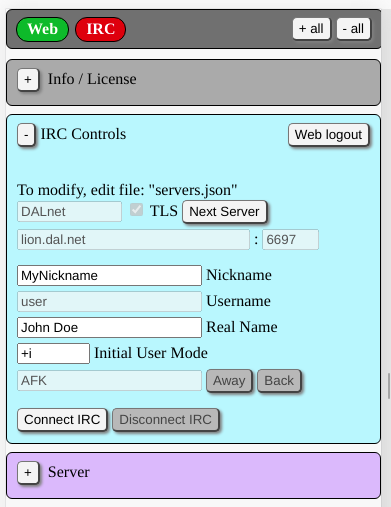
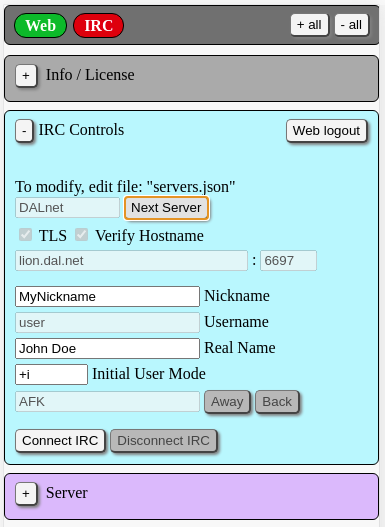
Fix IRC server TLS hostname verification and add to config.

diff --git a/secure-minify/webclient.html b/secure-minify/webclient.html
@@ -49,38 +49,39 @@ You are receiving this message because your nickname is still present on IRC, or
 </div></div><div id="webDisconnectedHiddenDiv1" hidden><div class="aa-section-div color-connect"><div class="head-flex"><div class="head-left"><button id="hideLoginSectionButton">-</button> <span>
 IRC Controls</span></div><div class="head-right"><button id="webLogoutButton">Web logout</button></div></div><div class="vh10"></div><div class="button-div"><span class="user-span" id="headerServer">
 server</span> <span class="user-span" id="headerUser"></span></div><div class="vh10"></div><div id="hideLoginSection"><div class="vh10"></div><div>To modify, edit file: &quotservers.json&quot</div>
-<div class="button-div"><input type="text" id="ircServerNameInputId" size="10" value="" disabled="disabled"> <input type="checkbox" id="ircServerTlsCheck" disabled="disabled"> <span>TLS</span> <button
- id="cycleNextServerButton">Next Server</button></div><div class="button-div"><input type="text" id="ircServerAddrInputId" size="26" value="" disabled="disabled"> <span>:</span> <input type="text" 
-id="ircServerPortInputId" size="4" value="" disabled="disabled"></div><div class="vh10"></div><div class="button-div"><input type="text" id="nickNameInputId" value=""><div class="input-label-right">
-Nickname</div></div><div class="button-div"><input type="text" id="userNameInputId" value="" disabled="disabled"><div class="input-label-right">Username</div></div><div class="button-div"><input 
-type="text" id="realNameInputId" value=""><div class="input-label-right">Real Name</div></div><div class="button-div"><input type="text" id="userModeInputId" size="6" value=""><div 
-class="input-label-right">Initial User Mode</div></div><div class="button-div"><input type="text" id="userAwayMessageId" size="20" value="AFK"> <button id="setAwayButton">Away</button> <button 
-id="setBackButton">Back</button></div><div class="vh10"></div><div class="button-div"><button id="connectButton">Connect IRC</button> <button id="quitButton">Disconnect IRC</button></div></div></div>
-</div><div><div class="aa-section-div color-raw" id="rawSectionDiv"><div class="head-flex"><div class="head-left"><button class="notice-button" id="rawHiddenElementsButton">-</button> <span>Server
-</span></div><div class="head-center"></div><div class="head-right"><div id="rawHeadRightButtons"><button id="rawTallerButton">Taller</button> <button id="rawNormalButton">Normal</button> <button 
-id="rawClearButton">Clear</button></div></div></div><div id="rawHiddenElements"><div><textarea id="rawMessageDisplay" cols="120" rows="10" spellcheck="false" readonly="readonly"></textarea></div><div 
-id="hideRawButtons"><div class="button-div"><textarea class="va-middle" spellcheck="false" id="rawMessageInputId" cols="83" rows="1"></textarea> <button class="va-middle" id="sendRawMessageButton">
-Send</button></div><div class="button-div"><button id="loadFromCacheButton">Refresh</button> <button id="eraseCacheButton">Erase Cache</button> <button id="showDebugButton">More...</button></div><div 
-id="hiddenDebugDiv" hidden><div class="button-div"><input class="raw-cb-cb" type="checkbox" id="viewRawMessagesCheckbox"> <span class="raw-cb-span">View-Raw</span> <input class="raw-cb-cb" 
-type="checkbox" id="showCommsCheckbox" disabled="disabled"> <span class="raw-cb-span">Add-Comms</span> <input class="raw-cb-cb" type="checkbox" id="showRawInHexCheckbox" disabled="disabled"> <span 
-class="raw-cb-span">Add-Hex</span></div><div class="debug-div-time"><div><pre id="elapsedTimeDiv"></pre></div></div><div class="button-div"><button id="test1Button">Test-1</button> <span>Server: 
-</span><span id="test1ButtonDesc"></span></div><div class="button-div"><button id="test2Button">Test-2</button> <span>Server: </span><span id="test2ButtonDesc"></span></div><div class="button-div">
-<button id="test3Button">Test-3</button> <span>Local: </span><span id="test3ButtonDesc"></span></div><div class="button-div"><button id="test4Button">Test-4</button> <span>Local: </span><span 
-id="test4ButtonDesc"></span></div><div class="button-div"><button id="disconnectButton">Force IRC Disconnect</button> <button id="serverTerminateButton">Die Web Server</button></div><div 
-class="button-div"><button id="recalcPageWidthButtonId">Recalc Page Width</button> <button id="variablesButtonId">Show Variables</button></div><div class="variables-div" id="variablesDivId" hidden>
-<pre id="variablesPreId"></pre></div></div></div><div class="program-version-div"><span><a href="https://cotarr.github.io/irc-hybrid-client">irc-hybrid-client</a></span> <span id="programVersionDiv">
-</span></div></div></div></div><div id="webDisconnectedHiddenDiv2" hidden><div id="ircDisconnectedHiddenDiv" hidden><div class="aa-section-div color-wallops" id="wallopsSectionDiv" hidden><div 
-class="head-flex"><div class="head-left"><button class="notice-button" id="wallopsCloseButton">-</button> <span>Wallops</span></div><div class="head-center"></div><div class="head-right"><button 
-id="wallopsTallerButton">Taller</button> <button id="wallopsNormalButton">Normal</button> <button id="wallopsClearButton">Clear</button></div></div><textarea id="wallopsMessageDisplay" cols="120" 
-rows="5" spellcheck="false" readonly="readonly"></textarea></div><div class="aa-section-div color-notice" id="noticeSectionDiv" hidden><div class="head-flex"><div class="head-left"><button 
-class="notice-button" id="closeNoticeButton">-</button> <span>Notice</span></div><div class="head-center"></div><div class="head-right"><button id="noticeTallerButton">Taller</button> <button 
-id="noticeNormalButton">Normal</button> <button id="noticeClearButton">Clear</button></div></div><textarea id="noticeMessageDisplay" cols="120" rows="5" spellcheck="false" readonly="readonly">
-</textarea></div><div class="aa-section-div color-pm" id="privMsgSectionDiv"><div><button id="privMsgMainHiddenButton">+</button> <span>Private Messages</span></div><div id="privMsgMainHiddenDiv" 
-hidden><div class="vh10"></div><div class="button-div"><div class="input-label-left">Private Msg to</div><input type="text" id="pmNickNameInputId" size="12" value=""> <button id="whoisButton">Whois
-</button></div><div class="vh10"></div><div class="button-div"><textarea class="va-middle" id="userPrivMsgInputId" cols="83" rows="1"></textarea> <button class="va-middle" id="UserPrivMsgSendButton">
-Send</button></div></div></div><div id="privateMessageContainerDiv"></div><div class="aa-section-div color-channel" id="channelMenuDiv"><div><button id="ircChannelsMainHiddenButton">+</button> <span>
-IRC Channels</span></div><div id="ircChannelsMainHiddenDiv"><div class="vh10"></div><div class="button-div"><textarea class="va-middle" id="newChannelNameInputId" cols="20" rows="1"></textarea> 
-<button class="va-middle" id="newChannelButton" class="rm20">Join Channel</button></div><div class="button-div" id="channelJoinButtonContainer"></div></div></div><div id="channelContainerDiv"></div>
-</div></div><div id="webDisconnectedVisibleDiv" hidden><div class="reconnect-div" id="reconnectDivId"><h2>Disconnected from Web Server</h2><div class="button-div"><button 
+<div class="button-div"><input type="text" id="ircServerNameInputId" size="10" value="" disabled="disabled"> <button id="cycleNextServerButton">Next Server</button></div><div class="button-div"><input
+ type="checkbox" id="ircServerTlsEnable" disabled="disabled"> <span>TLS</span> <input type="checkbox" id="ircServerTlsVerify" disabled="disabled"> <span>Verify Hostname</span></div><div 
+class="button-div"><input type="text" id="ircServerAddrInputId" size="26" value="" disabled="disabled"> <span>:</span> <input type="text" id="ircServerPortInputId" size="4" value="" 
+disabled="disabled"></div><div class="vh10"></div><div class="button-div"><input type="text" id="nickNameInputId" value=""><div class="input-label-right">Nickname</div></div><div class="button-div">
+<input type="text" id="userNameInputId" value="" disabled="disabled"><div class="input-label-right">Username</div></div><div class="button-div"><input type="text" id="realNameInputId" value=""><div 
+class="input-label-right">Real Name</div></div><div class="button-div"><input type="text" id="userModeInputId" size="6" value=""><div class="input-label-right">Initial User Mode</div></div><div 
+class="button-div"><input type="text" id="userAwayMessageId" size="20" value="AFK"> <button id="setAwayButton">Away</button> <button id="setBackButton">Back</button></div><div class="vh10"></div><div 
+class="button-div"><button id="connectButton">Connect IRC</button> <button id="quitButton">Disconnect IRC</button></div></div></div></div><div><div class="aa-section-div color-raw" id="rawSectionDiv">
+<div class="head-flex"><div class="head-left"><button class="notice-button" id="rawHiddenElementsButton">-</button> <span>Server</span></div><div class="head-center"></div><div class="head-right"><div
+ id="rawHeadRightButtons"><button id="rawTallerButton">Taller</button> <button id="rawNormalButton">Normal</button> <button id="rawClearButton">Clear</button></div></div></div><div 
+id="rawHiddenElements"><div><textarea id="rawMessageDisplay" cols="120" rows="10" spellcheck="false" readonly="readonly"></textarea></div><div id="hideRawButtons"><div class="button-div"><textarea 
+class="va-middle" spellcheck="false" id="rawMessageInputId" cols="83" rows="1"></textarea> <button class="va-middle" id="sendRawMessageButton">Send</button></div><div class="button-div"><button 
+id="loadFromCacheButton">Refresh</button> <button id="eraseCacheButton">Erase Cache</button> <button id="showDebugButton">More...</button></div><div id="hiddenDebugDiv" hidden><div class="button-div">
+<input class="raw-cb-cb" type="checkbox" id="viewRawMessagesCheckbox"> <span class="raw-cb-span">View-Raw</span> <input class="raw-cb-cb" type="checkbox" id="showCommsCheckbox" disabled="disabled"> 
+<span class="raw-cb-span">Add-Comms</span> <input class="raw-cb-cb" type="checkbox" id="showRawInHexCheckbox" disabled="disabled"> <span class="raw-cb-span">Add-Hex</span></div><div 
+class="debug-div-time"><div><pre id="elapsedTimeDiv"></pre></div></div><div class="button-div"><button id="test1Button">Test-1</button> <span>Server: </span><span id="test1ButtonDesc"></span></div>
+<div class="button-div"><button id="test2Button">Test-2</button> <span>Server: </span><span id="test2ButtonDesc"></span></div><div class="button-div"><button id="test3Button">Test-3</button> <span>
+Local: </span><span id="test3ButtonDesc"></span></div><div class="button-div"><button id="test4Button">Test-4</button> <span>Local: </span><span id="test4ButtonDesc"></span></div><div 
+class="button-div"><button id="disconnectButton">Force IRC Disconnect</button> <button id="serverTerminateButton">Die Web Server</button></div><div class="button-div"><button 
+id="recalcPageWidthButtonId">Recalc Page Width</button> <button id="variablesButtonId">Show Variables</button></div><div class="variables-div" id="variablesDivId" hidden><pre id="variablesPreId">
+</pre></div></div></div><div class="program-version-div"><span><a href="https://cotarr.github.io/irc-hybrid-client">irc-hybrid-client</a></span> <span id="programVersionDiv"></span></div></div></div>
+</div><div id="webDisconnectedHiddenDiv2" hidden><div id="ircDisconnectedHiddenDiv" hidden><div class="aa-section-div color-wallops" id="wallopsSectionDiv" hidden><div class="head-flex"><div 
+class="head-left"><button class="notice-button" id="wallopsCloseButton">-</button> <span>Wallops</span></div><div class="head-center"></div><div class="head-right"><button id="wallopsTallerButton">
+Taller</button> <button id="wallopsNormalButton">Normal</button> <button id="wallopsClearButton">Clear</button></div></div><textarea id="wallopsMessageDisplay" cols="120" rows="5" spellcheck="false" 
+readonly="readonly"></textarea></div><div class="aa-section-div color-notice" id="noticeSectionDiv" hidden><div class="head-flex"><div class="head-left"><button class="notice-button" 
+id="closeNoticeButton">-</button> <span>Notice</span></div><div class="head-center"></div><div class="head-right"><button id="noticeTallerButton">Taller</button> <button id="noticeNormalButton">Normal
+</button> <button id="noticeClearButton">Clear</button></div></div><textarea id="noticeMessageDisplay" cols="120" rows="5" spellcheck="false" readonly="readonly"></textarea></div><div 
+class="aa-section-div color-pm" id="privMsgSectionDiv"><div><button id="privMsgMainHiddenButton">+</button> <span>Private Messages</span></div><div id="privMsgMainHiddenDiv" hidden><div class="vh10">
+</div><div class="button-div"><div class="input-label-left">Private Msg to</div><input type="text" id="pmNickNameInputId" size="12" value=""> <button id="whoisButton">Whois</button></div><div 
+class="vh10"></div><div class="button-div"><textarea class="va-middle" id="userPrivMsgInputId" cols="83" rows="1"></textarea> <button class="va-middle" id="UserPrivMsgSendButton">Send</button></div>
+</div></div><div id="privateMessageContainerDiv"></div><div class="aa-section-div color-channel" id="channelMenuDiv"><div><button id="ircChannelsMainHiddenButton">+</button> <span>IRC Channels</span>
+</div><div id="ircChannelsMainHiddenDiv"><div class="vh10"></div><div class="button-div"><textarea class="va-middle" id="newChannelNameInputId" cols="20" rows="1"></textarea> <button 
+class="va-middle" id="newChannelButton" class="rm20">Join Channel</button></div><div class="button-div" id="channelJoinButtonContainer"></div></div></div><div id="channelContainerDiv"></div></div>
+</div><div id="webDisconnectedVisibleDiv" hidden><div class="reconnect-div" id="reconnectDivId"><h2>Disconnected from Web Server</h2><div class="button-div"><button 
 id="manualWebSocketReconnectButton">Reconnect to Web Site</button> <button id="stopWebSocketReconnectButton">Stop</button></div><pre class="reconnect-status-div" id="reconnectStatusDiv"></pre></div>
 </div></div><div id="rulerDiv"></div></body></html>

diff --git a/server/irc/irc-client.js b/server/irc/irc-client.js
@@ -40,21 +40,23 @@
   const ircWrite = require('./irc-client-write');
   const ircParse = require('./irc-client-parse');
   const ircCommand = require('./irc-client-command');
-
   const ircMessageCache = require('./irc-client-cache');
   const vars = require('./irc-client-vars');
 
   const nodeEnv = process.env.NODE_ENV || 'development';
 
-  // const credentials = JSON.parse(fs.readFileSync('./credentials.json', 'utf8'));
-
   const servers = JSON.parse(fs.readFileSync('./servers.json', 'utf8'));
   if ((!('configVersion' in servers)) || (servers.configVersion !== 1)) {
-    console.log('Error, servers.js wrong configVersion');
+    console.error('Error, servers.js wrong configVersion');
     process.exit(1);
   }
   if ((!('serverArray' in servers)) || (servers.serverArray.length < 1)) {
-    console.log('Error, no server configuration in servers.json');
+    console.error('Error, no server configuration in servers.json');
+    process.exit(1);
+  }
+  // TLS Verify property added 2021-07-17, message to update config file.
+  if (!('verify' in servers.serverArray[0])) {
+    console.error('File: servers.json: missing boolean "verify" property for TLS hostname check.');
     process.exit(1);
   }
 
@@ -76,12 +78,15 @@
   vars.ircState.ircServerHost = servers.serverArray[0].host;
   vars.ircState.ircServerPort = servers.serverArray[0].port;
   vars.ircState.ircTLSEnabled = servers.serverArray[0].tls;
+  vars.ircState.ircTLSVerify = servers.serverArray[0].verify;
   vars.ircServerPassword = servers.serverArray[0].password;
   vars.nsIdentifyNick = servers.serverArray[0].identifyNick;
   vars.nsIdentifyCommand = servers.serverArray[0].identifyCommand;
   // index into servers.json file
   vars.ircState.ircServerIndex = 0;
   vars.ircState.ircServerPrefix = '';
+  // pass on IRC socket TLS info
+  vars.ircState.ircSockInfo = {};
   // List of favorite channels
   vars.ircState.channelList = servers.serverArray[0].channelList;
 
@@ -297,6 +302,65 @@
   //
   // creates socket to IRC server
   const connectIRC = function () {
+    let connectMessage = 'Opening socket to ' + vars.ircState.ircServerName + ' ' +
+      vars.ircState.ircServerHost + ':' + vars.ircState.ircServerPort;
+    if (vars.ircState.ircTLSEnabled) {
+      connectMessage += ' (TLS)';
+    }
+    global.sendToBrowser('UPDATE\nwebServer: ' + connectMessage + '\n');
+    ircLog.writeIrcLog(connectMessage);
+
+    // update later if TLS
+    vars.ircState.ircSockInfo.encrypted = false;
+    vars.ircState.ircSockInfo.verified = false;
+    vars.ircState.ircSockInfo.protocol = '';
+
+    // ---------------------
+    //      Old Socket ?
+    // ---------------------
+    if (ircSocket) {
+      try {
+        // If old socket exist, destroy to be sure not left connected.
+        ircSocket.destroy();
+        ircSocket = null;
+      } catch (err) {
+        // Ingore
+      }
+    }
+
+    // ----------------------------------
+    //          New Socket
+    // ----------------------------------
+    // options Object
+    // ------------------
+    const options = {
+      port: vars.ircState.ircServerPort,
+      host: vars.ircState.ircServerHost
+    };
+    if (vars.ircState.ircTLSEnabled) {
+      options.rejectUnauthorized = vars.ircState.ircTLSVerify;
+      if (vars.ircState.ircTLSVerify) {
+        options.servername = vars.ircState.ircServerHost;
+      }
+      options.minVersion = 'TLSv1.2';
+    }
+    // ------------------------------
+    // Connect request return socket
+    // ------------------------------
+    // If socket wrapped in TLS encryption
+    if (vars.ircState.ircTLSEnabled) {
+      ircSocket = tls.connect(options, function () {
+        ircLog.writeIrcLog('Connected to IRC server ' + vars.ircState.ircServerName + ' ' +
+          vars.ircState.ircServerHost + ':' + vars.ircState.ircServerPort);
+      });
+    } else {
+      // else TCP socket without encryption
+      ircSocket = net.connect(options, function () {
+        ircLog.writeIrcLog('Connected to IRC server ' + vars.ircState.ircServerName + ' ' +
+          vars.ircState.ircServerHost + ':' + vars.ircState.ircServerPort);
+      });
+    }
+
     //
     // Connecting watchdog timer
     //
@@ -322,19 +386,11 @@
       }
     }, vars.ircSocketConnectingTimeout * 1000);
 
-    let connectMessage = 'Opening socket to ' + vars.ircState.ircServerName + ' ' +
-      vars.ircState.ircServerHost + ':' + vars.ircState.ircServerPort;
-    if (vars.ircState.ircTLSEnabled) {
-      connectMessage += ' (TLS)';
-    }
-    global.sendToBrowser('UPDATE\nwebServer: ' + connectMessage + '\n');
-    ircLog.writeIrcLog(connectMessage);
-
-    if (vars.ircState.ircTLSEnabled) {
-      ircSocket = new tls.TLSSocket();
-    } else {
-      ircSocket = new net.Socket();
-    }
+    ircSocket.on('secureConnect', function (e) {
+      vars.ircState.ircSockInfo.encrypted = ircSocket.encrypted;
+      vars.ircState.ircSockInfo.verified = ircSocket.authorized;
+      vars.ircState.ircSockInfo.protocol = ircSocket.getProtocol();
+    });
 
     // --------------------------------------------------
     //   On Connect   (IRC client socket connected)
@@ -427,17 +483,12 @@
       }
       // clear watchdog timer
       if (watchdogTimer) clearTimeout(watchdogTimer);
-      global.sendToBrowser('UPDATE\nwebError: IRC server socket error, connected flags reset\n');
-      ircLog.writeIrcLog('IRC server socket error, connected flags reset');
-    });
-
-    // ----------------------------------
-    // All even listeners are created
-    // Go ahead can connect the socket.
-    // ----------------------------------
-    ircSocket.connect(vars.ircState.ircServerPort, vars.ircState.ircServerHost, function () {
-      ircLog.writeIrcLog('Connected to IRC server ' + vars.ircState.ircServerName + ' ' +
-        vars.ircState.ircServerHost + ':' + vars.ircState.ircServerPort);
+      let errorMessage = 'IRC server socket error';
+      if ('code' in err) {
+        errorMessage += ': ' + err.code;
+      }
+      global.sendToBrowser('UPDATE\nwebError: ' + errorMessage + '\n');
+      ircLog.writeIrcLog(errorMessage);
     });
   }; // connectIRC()
 
@@ -666,6 +717,7 @@
     vars.ircState.ircServerHost = servers.serverArray[vars.ircState.ircServerIndex].host;
     vars.ircState.ircServerPort = servers.serverArray[vars.ircState.ircServerIndex].port;
     vars.ircState.ircTLSEnabled = servers.serverArray[vars.ircState.ircServerIndex].tls;
+    vars.ircState.ircTLSVerify = servers.serverArray[vars.ircState.ircServerIndex].verify;
     vars.ircServerPassword = servers.serverArray[vars.ircState.ircServerIndex].password;
     vars.nsIdentifyNick = servers.serverArray[vars.ircState.ircServerIndex].identifyNick;
     vars.nsIdentifyCommand = servers.serverArray[vars.ircState.ircServerIndex].identifyCommand;

diff --git a/secure-minify/js/webclient.js b/secure-minify/js/webclient.js
@@ -141,13 +141,15 @@ const fetchURL=webServerUrl+'/irc/getircstate';const fetchOptions={method:'GET',
 }else{if(response.status===403)window.location.href='/login';throw new Error('Fetch status '+response.status+' '+response.statusText)}}).then(responseJson=>{ircState=responseJson
 ;if(!ircState.ircConnected&&webState.lastIrcServerIndex!==ircState.ircServerIndex){webState.lastIrcServerIndex=ircState.ircServerIndex
 ;document.getElementById('ircServerNameInputId').value=ircState.ircServerName;document.getElementById('ircServerAddrInputId').value=ircState.ircServerHost
-;document.getElementById('ircServerPortInputId').value=ircState.ircServerPort;if(ircState.ircTLSEnabled){document.getElementById('ircServerTlsCheck').setAttribute('checked','')}else{
-document.getElementById('ircServerTlsCheck').removeAttribute('checked')}document.getElementById('nickNameInputId').value=ircState.nickName
+;document.getElementById('ircServerPortInputId').value=ircState.ircServerPort;if(ircState.ircTLSEnabled){document.getElementById('ircServerTlsEnable').setAttribute('checked','')}else{
+document.getElementById('ircServerTlsEnable').removeAttribute('checked')}if(ircState.ircTLSVerify){document.getElementById('ircServerTlsVerify').setAttribute('checked','')}else{
+document.getElementById('ircServerTlsVerify').removeAttribute('checked')}document.getElementById('nickNameInputId').value=ircState.nickName
 ;document.getElementById('userNameInputId').value=ircState.userName;document.getElementById('realNameInputId').value=ircState.realName
 ;document.getElementById('userModeInputId').value=ircState.userMode}if(ircState.ircConnected){document.title='IRC-'+ircState.ircServerName
 ;document.getElementById('ircServerNameInputId').value=ircState.ircServerName;document.getElementById('ircServerAddrInputId').value=ircState.ircServerHost
-;document.getElementById('ircServerPortInputId').value=ircState.ircServerPort;if(ircState.ircTLSEnabled){document.getElementById('ircServerTlsCheck').setAttribute('checked','')}else{
-document.getElementById('ircServerTlsCheck').removeAttribute('checked')}document.getElementById('headerServer').textContent=ircState.ircServerName
+;document.getElementById('ircServerPortInputId').value=ircState.ircServerPort;if(ircState.ircTLSEnabled){document.getElementById('ircServerTlsEnable').setAttribute('checked','')}else{
+document.getElementById('ircServerTlsEnable').removeAttribute('checked')}if(ircState.ircTLSVerify){document.getElementById('ircServerTlsVerify').setAttribute('checked','')}else{
+document.getElementById('ircServerTlsVerify').removeAttribute('checked')}document.getElementById('headerServer').textContent=ircState.ircServerName
 ;document.getElementById('headerUser').textContent=' ('+ircState.nickName+')';document.getElementById('nickNameInputId').value=ircState.nickName
 ;document.getElementById('userNameInputId').value=ircState.userName;document.getElementById('realNameInputId').value=ircState.realName
 ;document.getElementById('userModeInputId').value=ircState.userMode;webState.ircConnecting=false}if(!ircState.ircConnected){setVariablesShowingIRCDisconnected();document.title='irc-hybrid-client'}

diff --git a/secure/js/webclient.js b/secure/js/webclient.js
@@ -756,11 +756,15 @@ function getIrcState (callback) {
         document.getElementById('ircServerAddrInputId').value = ircState.ircServerHost;
         document.getElementById('ircServerPortInputId').value = ircState.ircServerPort;
         if (ircState.ircTLSEnabled) {
-          document.getElementById('ircServerTlsCheck').setAttribute('checked', '');
+          document.getElementById('ircServerTlsEnable').setAttribute('checked', '');
         } else {
-          document.getElementById('ircServerTlsCheck').removeAttribute('checked');
+          document.getElementById('ircServerTlsEnable').removeAttribute('checked');
         }
-
+        if (ircState.ircTLSVerify) {
+          document.getElementById('ircServerTlsVerify').setAttribute('checked', '');
+        } else {
+          document.getElementById('ircServerTlsVerify').removeAttribute('checked');
+        }
         document.getElementById('nickNameInputId').value = ircState.nickName;
         document.getElementById('userNameInputId').value = ircState.userName;
         document.getElementById('realNameInputId').value = ircState.realName;
@@ -774,9 +778,14 @@ function getIrcState (callback) {
         document.getElementById('ircServerAddrInputId').value = ircState.ircServerHost;
         document.getElementById('ircServerPortInputId').value = ircState.ircServerPort;
         if (ircState.ircTLSEnabled) {
-          document.getElementById('ircServerTlsCheck').setAttribute('checked', '');
+          document.getElementById('ircServerTlsEnable').setAttribute('checked', '');
         } else {
-          document.getElementById('ircServerTlsCheck').removeAttribute('checked');
+          document.getElementById('ircServerTlsEnable').removeAttribute('checked');
+        }
+        if (ircState.ircTLSVerify) {
+          document.getElementById('ircServerTlsVerify').setAttribute('checked', '');
+        } else {
+          document.getElementById('ircServerTlsVerify').removeAttribute('checked');
         }
         document.getElementById('headerServer').textContent = ircState.ircServerName;
         document.getElementById('headerUser').textContent = ' (' + ircState.nickName + ')';

diff --git a/docs/server-config.html b/docs/server-config.html
@@ -106,16 +106,15 @@
 
         <div class="install-section-title">1 - IRC Server configuration</div>
         <p>
-          There are 5 properties to define a server entry.
+          There are 6 properties to define a server entry.
           The &quotname&quot property can be set to any value.
           It is used to display the name of your selection.
           If you are using a phone, keep &quotname&quot short.
         </p>
         <p>
           At this time there are no provisions to configure a server to
-          auto-connect to IRC on startup. There is no provision to auto-join channels.
-          Reconnecting after a disconnect is available as a global setting and
-          reconnection will be discussed below.
+          auto-connect to IRC on startup.
+          There is no provision to auto-join channels on startup.
         </p>
         <p>
           In this example, an IRC server is configured without TLS encryption.
@@ -125,11 +124,14 @@
   "host": "lion.dal.net",
   "port": 6667,
   "tls": false,
+  "verify": false,
   "password": "",
 </pre></div>
 <p>
   To configure for TLS encryption the &quotport&quot was changed to 6697 and
-  &quottls&quot was set to true
+  &quottls&quot was set to true. If the IRC server hostname should be
+  verified, set &quotverify&quot to true. For number IP addresses,
+  set &quotverify&quot to false.
 </p>
 
 <div class="pre-div"><pre>
@@ -137,6 +139,7 @@
   "host": "lion.dal.net",
   "port": 6697,
   "tls": true,
+  "verify": true,
   "password": "",
 </pre></div>
         <div class="install-section-title">2 - NickServ IDENTIFY</div>
@@ -308,6 +311,7 @@
       "host": "lion.dal.net",
       "port": 6697,
       "tls": true,
+      "verify": true,
       "password": "",
       "identifyNick": "MyNickname",
       "identifyCommand": "PRIVMSG NickServ@services.dal.net :IDENTIFY xxxxxxxx",

diff --git a/secure/webclient.html b/secure/webclient.html
@@ -176,9 +176,13 @@ a raw command to the IRC server directly.
             </div>
             <div class="button-div">
               <input type="text" id="ircServerNameInputId" size="10" value="" disabled>
-              <input type="checkbox" id="ircServerTlsCheck" disabled>
-              <span>TLS</span>
               <button id="cycleNextServerButton">Next Server</button>
+            </div>
+            <div class="button-div">
+              <input type="checkbox" id="ircServerTlsEnable" disabled>
+              <span>TLS</span>
+              <input type="checkbox" id="ircServerTlsVerify" disabled>
+              <span>Verify Hostname</span>
             </div>
             <div class="button-div">
               <input type="text" id="ircServerAddrInputId" size="26" value="" disabled>

diff --git a/docs/history.html b/docs/history.html
@@ -33,6 +33,16 @@
           Change Log
         </div>
         <p>
+          2021-07-17 (next).
+          Added server configuration property &quotverify&quot to indicate
+          if the IRC server hostname should be verified for TLS connections.
+          <yellow-example>
+          This change will require update of servers.json configuration files
+          </yellow-example>)
+          Fixed error where previously IRC server hostname was not
+          verified for TLS connections.
+        </p>
+        <p>
           2021-07-16 (0.1.20)
           Taller buttons increase height of input to 3 lines for channel and PM.
           Fixed outgoing IRC messages not added to irc.log.

diff --git a/docs/index.html b/docs/index.html
@@ -89,7 +89,7 @@
             </p>
           </div>
           <div class="image-photo">
-            <img src=images/irc-login.png width="391" height="507"alt="IRC login form image">
+            <img src=images/irc-login.png width="385" height="527"alt="IRC login form image">
           </div>
         </div>
 
